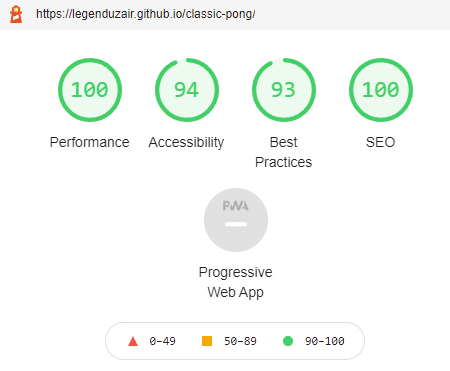
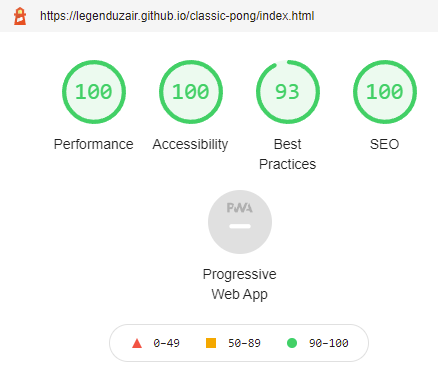
Add new screenshots of new lighthouse report, update testing section and color scheme sections on readme

diff --git a/README.md b/README.md
@@ -34,8 +34,8 @@ Before initiating the project, I planned the layout and structure of the game ac
 ## Color Scheme
 
 For the general color scheme of the project, I went with a smoky blue background with a bright red/pink color for the content structured on the various screens. When hovered over, the interactive buttons all light up white which fit the pink color of the buttons. This theme makes the project appear stylish and easily visible to the user as the foreground content stands out from the background. For the canvas, I used a plain black background with majority of the objects being white and the ball being the bright red/pink color used before on different screens. This allows the user to view the canvas properly when playing the game and does not distract them from colors that are blinding to the human eye. These colors were chosen from one source called [Coolors](https://coolors.co/). Hex values were used when inputting the colors in the CSS file. 
-  - Background color: #183642
-  - Headings, buttons and ball color: #A4243B
+  - Background color: #0D1F26
+  - Headings, buttons and ball color: #D41335
   - Canvas color: #0B0500
   - Button text and game objects color: #F3F8F2
 
@@ -176,7 +176,7 @@ During and after development of Classic Pong, I encountered many bugs which need
 
   - Lighthouse 
 
-    - For the deployed project, I generated a lighthouse report through Google Chrome's developer tools for both desktop and mobile versions.
+    - For the deployed project, I generated a lighthouse report through Google Chrome's developer tools for both desktop and mobile versions. For both reports, lighthouse presented an issue with the foreground and background colors not having enough contrast which would allow some users to be distracted. To resolve this, different shades of the background and foreground color were used. Initially, hex values #183642 and #A4243B were used but were changed to #0D1F26 and #D41335. An updated report was generated.
 
       - Desktop Report:
 
